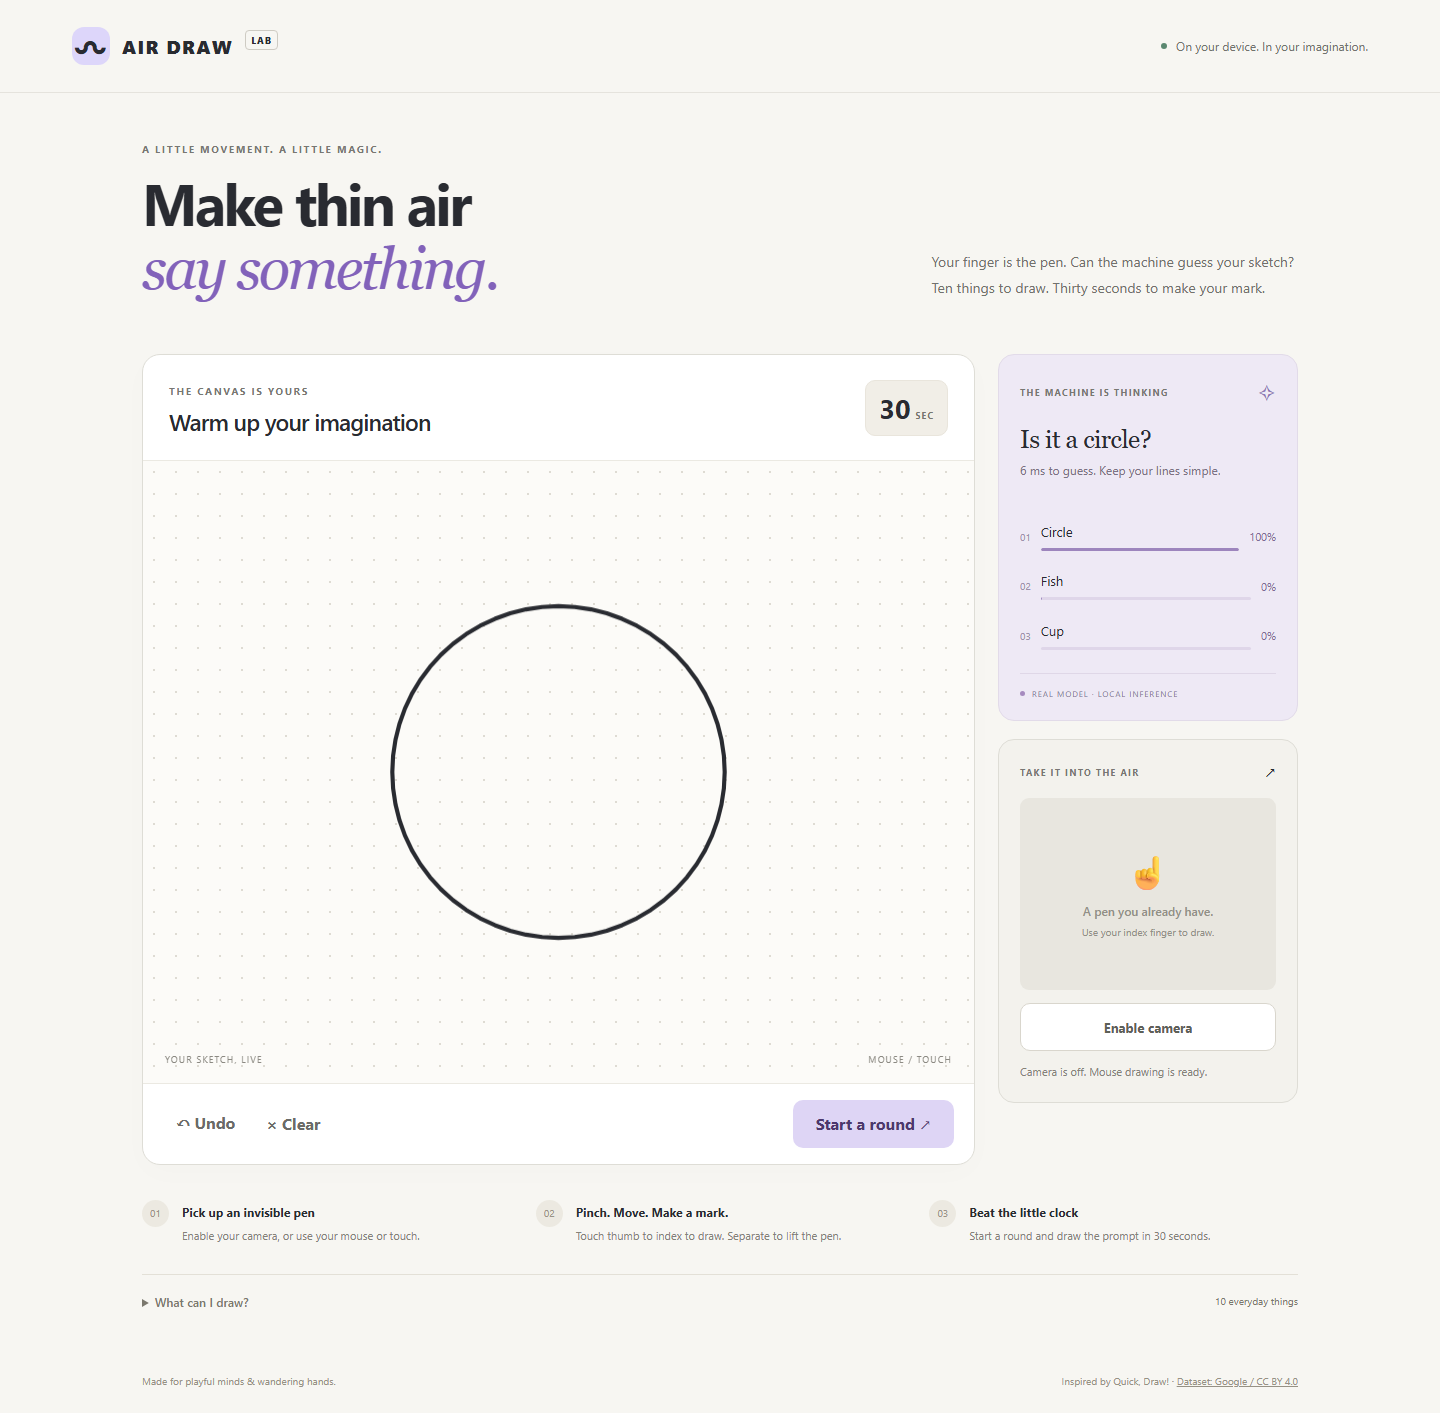
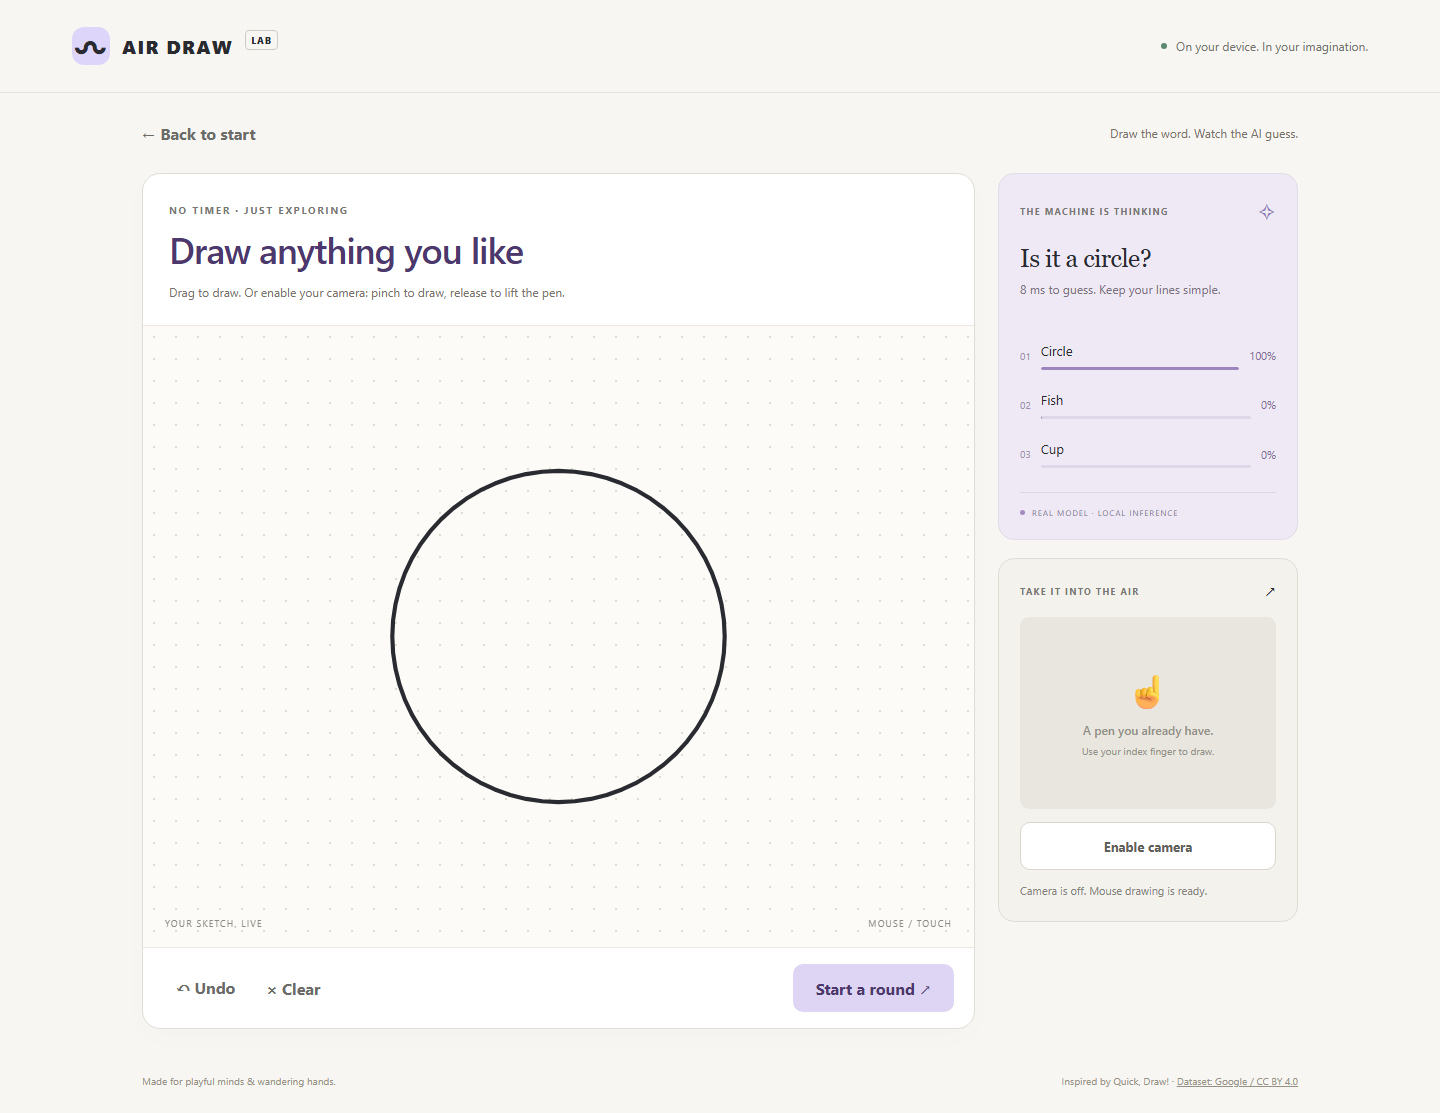
Add a guided start screen before the drawing board

diff --git a/web/src/main.ts b/web/src/main.ts
@@ -1,11 +1,20 @@
 import './style.css'
+import './start-screen.css'
 import { CATEGORIES, Drawing, StableGuess, type Point } from './drawing'
 import { Camera } from './camera'
 
 document.querySelector<HTMLDivElement>('#app')!.innerHTML = `
 <header><a class="brand" href="./"><span class="brand-icon">〰</span> AIR DRAW<span class="beta">LAB</span></a><span class="privacy"><i></i> On your device. In your imagination.</span></header>
 <main><section class="intro"><div class="eyebrow">A LITTLE MOVEMENT. A LITTLE MAGIC.</div><h1>Make thin air<br><em>say something.</em></h1><p>Your finger is the pen. Can the machine guess your sketch?<br>Ten things to draw. Thirty seconds to make your mark.</p></section>
-<section class="game" aria-label="Air Draw game"><div class="play-area">
+<section id="welcome" class="welcome" aria-labelledby="welcome-title">
+<span class="welcome-doodle" aria-hidden="true">✳</span><div class="eyebrow">A QUICK DRAWING CHALLENGE</div>
+<h2 id="welcome-title">Ready, set, sketch.</h2><p>We'll give you something to draw.<br>You have <strong>30 seconds</strong> to help the AI guess it.</p>
+<div class="welcome-steps"><span><b>1</b> Press Start</span><span><b>2</b> See your word</span><span><b>3</b> Draw it!</span></div>
+<button id="begin" class="primary" disabled>Getting ready…</button><p id="welcome-status" role="status">Loading the drawing model…</p>
+<button id="practice" class="practice-link">Just practice — no timer</button><p class="welcome-note">Use your mouse or finger. You can also enable your camera to draw in the air.</p>
+</section>
+<div id="board-nav" class="board-nav" hidden><button id="home" class="secondary">← Back to start</button><span>Draw the word. Watch the AI guess.</span></div>
+<section id="game" class="game" aria-label="Air Draw game" hidden><div class="play-area">
 <div class="prompt-bar"><div><span class="eyebrow" id="round-label">THE CANVAS IS YOURS</span><h2 id="prompt">Warm up your imagination</h2></div><div class="timer" role="timer" aria-label="Seconds remaining"><span id="seconds">30</span><small>SEC</small></div></div>
 <div class="canvas-wrap"><canvas id="canvas" width="800" height="600" aria-label="Drawing canvas. Drag with a mouse or finger to draw."></canvas><div id="canvas-hint"><span class="hint-scribble">✳</span><strong>Every great idea starts with a squiggle.</strong><span>Drag to draw, or turn on your camera.</span></div><div id="cursor" hidden></div><span class="canvas-label">YOUR SKETCH, LIVE</span><span id="pen-status" class="pen-status">MOUSE / TOUCH</span></div>
 <div class="toolbar"><div><button id="undo" class="secondary" disabled>↶ <span>Undo</span></button><button id="clear" class="secondary" disabled>× <span>Clear</span></button></div><button id="start" class="primary" disabled>Loading model…</button></div><div id="result" role="status" hidden></div></div>
@@ -24,8 +33,34 @@ let mouseDown = false, airDown = false
 let modelReady = false, inferenceBusy = false, lastInferred = -1, lastConfirmation = 0
 let inferenceSent = 0, lastTop = ''
 const inference = new Worker(new URL('./inference.worker.ts', import.meta.url), { type: 'module' })
+$('prompt').tabIndex = -1
+$('prompt').setAttribute('aria-live', 'polite')
+const instructions = document.createElement('p')
+instructions.className = 'drawing-instructions'
+instructions.textContent = 'Drag to draw. Or enable your camera: pinch to draw, release to lift the pen.'
+$('prompt').after(instructions)
+function showBoard() {
+  $('welcome').hidden = true; $('game').hidden = false; $('board-nav').hidden = false
+  document.body.classList.add('drawing-view')
+  redraw(); $('prompt').focus({ preventScroll: true }); window.scrollTo(0, 0)
+}
+$('practice').onclick = () => {
+  $('round-label').textContent = 'NO TIMER · JUST EXPLORING'
+  $('prompt').textContent = 'Draw anything you like'
+  document.querySelector<HTMLElement>('.timer')!.hidden = true
+  showBoard()
+}
+$('home').onclick = () => {
+  playing = false; finished = false; round++; mouseDown = false; endAir()
+  camera.stop(); drawing.clear(); resetGuesses(); $('result').hidden = true
+  $('start').textContent = modelReady ? 'Start a round ↗' : 'Model unavailable'
+  $('game').hidden = true; $('board-nav').hidden = true; $('welcome').hidden = false
+  document.body.classList.remove('drawing-view')
+  $(modelReady ? 'begin' : 'practice').focus({ preventScroll: true }); window.scrollTo(0, 0)
+}
 function redraw() {
   const rect = canvas.getBoundingClientRect(), dpr = Math.min(devicePixelRatio || 1, 2)
+  if (!rect.width || !rect.height) return
   const width = Math.round(rect.width * dpr), height = Math.round(rect.height * dpr)
   if (canvas.width !== width || canvas.height !== height) { canvas.width = width; canvas.height = height }
   ctx.setTransform(width / 800, 0, 0, height / 600, 0, 0)
@@ -67,23 +102,29 @@ function finish(success: boolean) {
   if (!playing) return
   playing = false; finished = true; mouseDown = false; drawing.end(); endAir()
   $('result').hidden = false; $('result').className = success ? 'success' : 'timeout'
-  $('result').textContent = success ? `Got it! That's a ${target}. Nicely drawn.` : `Time's up! The prompt was ${target}. ${lastTop ? `My last guess was ${lastTop}.` : 'Try a bold outline next time.'}`
+  $('result').textContent = success ? `Got it! That's ${/^[aeiou]/.test(target) ? 'an' : 'a'} ${target}. Nicely drawn.` : `Time's up! The prompt was ${target}. ${lastTop ? `My last guess was ${lastTop}.` : 'Try a bold outline next time.'}`
   $('start').textContent = 'Next round ↗'; $('round-label').textContent = success ? 'A LITTLE AIR. A GREAT IDEA.' : 'ANOTHER SKETCH AWAITS'
 }
-$('start').onclick = () => {
+function startRound() {
   if (!modelReady) return
   const choices = CATEGORIES.filter(c => c !== lastTarget)
   target = choices[Math.floor(Math.random() * choices.length)]; lastTarget = target
   round++; playing = true; finished = false; deadline = performance.now() + 30000
   endAir(); mouseDown = false; drawing.clear(); resetGuesses(); redraw()
-  $('prompt').textContent = `Draw a ${target}`; $('round-label').textContent = `ROUND ${String(round).padStart(2, '0')} · YOUR CHALLENGE`
+  $('prompt').textContent = `Draw ${/^[aeiou]/.test(target) ? 'an' : 'a'} ${target}`; $('round-label').textContent = `ROUND ${String(round).padStart(2, '0')} · YOUR CHALLENGE`
   $('seconds').textContent = '30'; $('start').textContent = 'Restart round ↗'; $('result').hidden = true
+  document.querySelector<HTMLElement>('.timer')!.hidden = false
+  showBoard()
 }
+$('start').onclick = startRound
+$('begin').onclick = startRound
 function modelError(message: string) {
   modelReady = false; inferenceBusy = false
   if (playing) { playing = false; finished = false; $('result').hidden = false; $('result').textContent = 'Round stopped because recognition is unavailable. Reload to retry; you can still sketch.' }
   $('model-status').textContent = `Recognition unavailable. Reload to retry. ${message}`
   $('start').textContent = 'Model unavailable'; $<HTMLButtonElement>('start').disabled = true
+  $('begin').textContent = 'Game unavailable'; $<HTMLButtonElement>('begin').disabled = true
+  $('welcome-status').textContent = 'Recognition could not load. Reload to retry, or choose Just practice to sketch.'
 }
 inference.onerror = e => modelError(e.message)
 inference.onmessage = event => {
@@ -91,6 +132,8 @@ inference.onmessage = event => {
   if (msg.type === 'ready') {
     modelReady = true; $('model-status').textContent = 'Ready when you are. Start sketching.'
     $('start').textContent = 'Start a round ↗'; $<HTMLButtonElement>('start').disabled = false
+    $('begin').textContent = 'Start drawing →'; $<HTMLButtonElement>('begin').disabled = false
+    $('welcome-status').textContent = 'Ready when you are. No camera required.'
   } else if (msg.type === 'error') modelError(msg.message)
   else if (msg.type === 'prediction') {
     inferenceBusy = false

diff --git a/web/tests/start-screen.spec.ts b/web/tests/start-screen.spec.ts
@@ -1,0 +1,47 @@
+import { test, expect } from '@playwright/test'
+
+test('start screen hides the board until Start, then shows a prompt and fresh round', async ({ page }) => {
+  await page.addInitScript(() => { Math.random = () => .999 })
+  await page.goto('/')
+  await expect(page.locator('#game')).toBeHidden()
+  await expect(page.locator('#begin')).toBeEnabled({ timeout: 60000 })
+  await page.screenshot({ path: '../docs/start-desktop.png', fullPage: true })
+  await page.setViewportSize({ width: 390, height: 844 })
+  expect(await page.evaluate(() => document.documentElement.scrollWidth <= innerWidth)).toBe(true)
+  await page.screenshot({ path: '../docs/start-mobile.png', fullPage: true })
+  await page.clock.install()
+  await page.clock.fastForward(31000)
+  await expect(page.locator('#result')).toBeHidden()
+  await page.locator('#begin').click()
+  await expect(page.locator('#welcome')).toBeHidden()
+  await expect(page.locator('#canvas')).toBeVisible()
+  await expect(page.locator('#prompt')).toHaveText('Draw an airplane')
+  await expect(page.locator('#prompt')).toBeFocused()
+  await expect(page.locator('#seconds')).toHaveText('30')
+  await expect(page.locator('.drawing-instructions')).toBeVisible()
+  await page.screenshot({ path: '../docs/round-mobile.png', fullPage: true })
+  await page.clock.fastForward(31000)
+  await expect(page.locator('#result')).toContainText("Time's up!")
+  await page.locator('#home').click()
+  await expect(page.locator('#game')).toBeHidden()
+  await expect(page.locator('#begin')).toBeFocused()
+  await page.locator('#begin').press('Enter')
+  await expect(page.locator('#seconds')).toHaveText('30')
+  await expect(page.locator('#result')).toBeHidden()
+  await expect(page.locator('#clear')).toBeDisabled()
+})
+
+test('practice has no timer and returning home stops the camera', async ({ page }) => {
+  await page.goto('/')
+  await page.locator('#practice').click()
+  await expect(page.locator('#prompt')).toHaveText('Draw anything you like')
+  await expect(page.locator('.timer')).toBeHidden()
+  await page.locator('#camera').click()
+  await expect(page.locator('#camera')).toHaveText('Disable camera', { timeout: 60000 })
+  await page.evaluate(() => {
+    (window as any).savedTracks = ((document.querySelector('video') as HTMLVideoElement).srcObject as MediaStream).getTracks()
+  })
+  await page.locator('#home').click()
+  expect(await page.evaluate(() => (window as any).savedTracks.every((t: MediaStreamTrack) => t.readyState === 'ended'))).toBe(true)
+  await expect(page.locator('#game')).toBeHidden()
+})

diff --git a/web/src/start-screen.css b/web/src/start-screen.css
@@ -1,0 +1,37 @@
+.welcome {
+  position: relative;
+  overflow: hidden;
+  padding: 42px 24px 30px;
+  border: 1px solid #e6d89f;
+  border-radius: 22px;
+  background: #f8edc4;
+  text-align: center;
+}
+.welcome h2 { margin: 12px 0; font: 48px/1.1 Georgia, serif; letter-spacing: -1.5px; }
+.welcome > p { color: #6a6454; font-size: 15px; line-height: 1.7; }
+.welcome-doodle { position: absolute; right: 8%; top: 24px; font-size: 100px; color: #c7ac62; transform: rotate(12deg); }
+.welcome-steps { display: flex; justify-content: center; flex-wrap: wrap; gap: 24px; margin: 26px 0; font-size: 13px; }
+.welcome-steps span { display: flex; align-items: center; gap: 8px; }
+.welcome-steps b { display: grid; place-items: center; border: 1px solid #d7c78d; border-radius: 50%; width: 26px; height: 26px; font-size: 11px; }
+.welcome .primary { min-width: 220px; min-height: 58px; background: #4c386d; color: white; font-size: 17px; }
+.welcome .primary:hover { background: #614886; }
+.welcome #welcome-status { min-height: 20px; font-size: 12px; margin: 12px 0 0; }
+.practice-link { background: transparent; color: #655b46; text-decoration: underline; text-underline-offset: 4px; font-size: 13px; margin-top: 6px; }
+.welcome .welcome-note { font-size: 12px; margin: 4px auto 0; max-width: 420px; }
+.board-nav { display: flex; align-items: center; justify-content: space-between; gap: 14px; padding: 16px 0; }
+.board-nav .secondary { background: transparent; padding-left: 0; }
+.board-nav > span { font-size: 12px; color: #77716a; }
+.drawing-view .intro, .drawing-view .how-to, .drawing-view main > details { display: none; }
+.drawing-view .prompt-bar h2 { font-size: clamp(26px, 3vw, 36px); letter-spacing: -1px; color: #4c386d; }
+.drawing-instructions { font-size: 12px; line-height: 1.6; color: #77716a; max-width: 430px; margin: 10px 0 0; }
+#prompt:focus { outline: none; }
+@media (max-width: 700px) {
+  .welcome { padding: 30px 18px 24px; }
+  .welcome h2 { font-size: 38px; }
+  .welcome-doodle { right: -15px; top: -12px; font-size: 70px; opacity: .45; }
+  .welcome-steps { gap: 12px; font-size: 11px; }
+  .welcome-steps span { gap: 5px; }
+  .board-nav > span { display: none; }
+  .drawing-view .prompt-bar { align-items: flex-start; }
+  .drawing-instructions { font-size: 11px; }
+}

diff --git a/web/tests/game.spec.ts b/web/tests/game.spec.ts
@@ -3,6 +3,7 @@ import { test, expect, type Page } from '@playwright/test'
 async function ready(page: Page) {
   await page.goto('/')
   await expect(page.locator('#start')).toBeEnabled({ timeout: 60000 })
+  await page.locator('#practice').click()
 }
 async function circle(page: Page) {
   const box = (await page.locator('#canvas').boundingBox())!
@@ -39,7 +40,7 @@ test('timer expires, result appears, restart resets canvas', async ({page}) => {
   await ready(page)
   await page.clock.install()
   await page.locator('#start').click()
-  await expect(page.locator('#prompt')).toContainText('Draw a ')
+  await expect(page.locator('#prompt')).toHaveText(/^Draw an? /)
   await page.clock.fastForward(31000)
   await expect(page.locator('#result')).toContainText("Time's up!")
   await page.locator('#start').click()
@@ -84,6 +85,8 @@ test('@recognition missing classifier fails honestly without invented prediction
   await page.goto('/')
   await expect(page.locator('#model-status')).toContainText('Recognition unavailable', {timeout:60000})
   await expect(page.locator('#start')).toBeDisabled()
+  await expect(page.locator('#welcome-status')).toContainText('Recognition could not load')
+  await page.locator('#practice').click()
   await circle(page)
   await expect(page.locator('#guesses')).toContainText('A few lines')
 })

diff --git a/web/tests/recognition.spec.ts b/web/tests/recognition.spec.ts
@@ -45,6 +45,7 @@ async function observe(page: Page, syntheticTracking = false) {
   }, { syntheticTracking })
   await page.goto('/')
   await expect(page.locator('#start')).toBeEnabled({ timeout: 60000 })
+  await page.locator('#practice').click()
 }
 
 async function mouseCircle(page: Page) {

diff --git a/CHECKPOINTS.md b/CHECKPOINTS.md
@@ -1,7 +1,9 @@
 # Checkpoint progress
 
-Work is limited to the nearest incomplete checkpoint. Checkpoint 5 is complete;
-stop here and do not begin checkpoint 6 until the user asks. On 2026-10-02 the
+Work is limited to the requested scope. Checkpoint 5 is complete; the user then
+requested a clearer Start → drawing-prompt UI. That focused portion of checkpoint
+6 is implemented and verified. Stop after this UI change; broader game-loop
+completion remains pending. On 2026-10-02 the
 user authorized pushing the existing state, then proceeding to checkpoint 5.
 Commit `ab8c66c` was pushed to `origin/main`. Checkpoint 5 changes are saved in a
 new local commit; further pushes and deployment are not part of this checkpoint.
@@ -13,7 +15,7 @@ new local commit; further pushes and deployment are not part of this checkpoint.
 | 3 | Webcam air drawing with pinch control | Existing implementation preserved; pinch hysteresis and reset checks pass. Physical-camera behavior still needs a human smoke test. |
 | 4 | Dataset preparation, model training, and evaluation | Complete and verified. Full test accuracy 96.00%; partial test accuracy 89.95%. |
 | 5 | Real browser recognition for mouse and air drawings | Complete: eight Chromium recognition tests pass with real ONNX inference. Air-path tests use controlled landmarks; physical-hand accuracy remains a manual check. |
-| 6 | Complete game loop | Draft implementation preserved. Not checkpoint-verified; deferred. |
+| 6 | Complete game loop | Start-screen UI change complete; start, practice, timeout/restart and return-home checks pass. Full success/stale-round verification remains pending. |
 | 7 | Verification, documentation, and deployment preparation | Draft docs and tests preserved. Full verification deferred. |
 
 ## Scope and preserved work
@@ -54,7 +56,9 @@ $env:Path = "$PWD\.tools\node-v24.21.0-win-x64;$env:Path"
 npm.cmd --prefix web run dev -- --host 127.0.0.1
 ```
 
-Open http://127.0.0.1:5173. Drag on the canvas; try Undo and Clear. Enable
+Open http://127.0.0.1:5173. Click **Start drawing** to open the board with a prompt
+and 30-second timer, or **Just practice** for untimed drawing. Drag on the canvas;
+try Undo and Clear. **Back to start** clears the round and stops the camera. Enable
 camera, grant permission, and pinch thumb to index to draw; separate them to
 lift the pen. Stop the server with Ctrl+C. Recognition has passed checkpoint 5
 browser checks; timed gameplay remains preserved for checkpoint 6 verification.
@@ -72,10 +76,37 @@ After the user explicitly requests checkpoint 6:
 4. Finish only the complete game loop: prompt selection, 30-second deadline,
    stable correct recognition, win/timeout results, restart, and state resets.
    Add meaningful missing success, stale-round and restart coverage. Existing
-   timer test in `web/tests/game.spec.ts` was intentionally not run in checkpoint 5.
+   timer test in `web/tests/game.spec.ts` now passes, as do the new start-screen
+   tests. Broader success/stale-round coverage is still outstanding.
 5. Run the relevant unit and browser checks, update this file, commit project-only
    changes locally, and stop before checkpoint 7. Do not deploy or push additional
    work unless requested.
+
+## Requested UI follow-up
+
+The board is initially hidden behind a warm-colored start card explaining the
+three steps: press Start, see a word, draw it. Start reveals a prominent prompt,
+the timer, and brief mouse/air instructions. The introductory sections disappear
+while drawing. Keyboard focus moves to the prompt. A secondary practice option
+preserves untimed drawing, including when recognition cannot load. Back to start
+clears drawing/round state, invalidates pending predictions and stops the camera.
+
+Verification: production build and five unit tests passed. All eleven browser
+tests passed (42.7s), including the eight recognition regressions, the existing
+timeout/restart test and two new start/practice tests. Following a small article
+fix ("Draw an airplane"), the build and the three affected UI/timer tests passed
+again (24.9s). Tests cover the hidden initial board, no timer before Start,
+mobile width, focus/keyboard activation, fresh rounds after returning home,
+untimed practice, camera cleanup and model-load failure fallback.
+
+Screenshots: [start desktop](docs/start-desktop.png),
+[start mobile](docs/start-mobile.png), [round mobile](docs/round-mobile.png).
+Mobile start and board layouts were visually inspected. Existing desktop/mobile
+recognition screenshots were refreshed for the new practice view.
+
+This completes the requested UI change, not all checkpoint-6 verification.
+Physical-hand testing and broader game-loop success/stale-round scenarios remain
+as noted above. No model retraining, dependency changes, push or deployment.
 
 ## Checkpoint 5 verification (2026-10-02)
 
@@ -156,12 +187,14 @@ Preparation, training, verification, installation and test processes have exited
 The earlier preview (session 71254) was stopped before browser testing. A local
 preview was restarted after tests at http://127.0.0.1:4173 using
 `npm.cmd --prefix web run preview -- --host 127.0.0.1 --port 4173 --strictPort`
-Preview tool session: `96746`. Stop with Ctrl+C in that session, or identify the listener
+The checkpoint-5 preview (session 96746) was stopped for UI testing. The preview
+was restarted after the UI build; its current tool session is `72295`.
+Stop with Ctrl+C in that session, or identify the listener
 with `Get-NetTCPConnection -LocalPort 4173 -State Listen` and stop its owning
 process. This local preview is the only intentionally running project process.
 No deployment was performed. Only the pre-checkpoint-5 commit `ab8c66c` was pushed,
-as requested; the new checkpoint-5 commit remains local.
+as requested; checkpoint 5 (`8f181c5`) and the UI follow-up commits remain local.
 
-Local checkpoint commit message: `Verify checkpoint 5 browser recognition for mouse and air input`.
+Local UI commit message: `Add a guided start screen before the drawing board`.
 Use `git log -1 --oneline` to find its commit ID (the ID is intentionally not
 embedded in the file it commits).

diff --git a/README.md b/README.md
@@ -25,10 +25,11 @@ npm.cmd run dev -- --host 127.0.0.1
 
 Open **http://127.0.0.1:5173**. On another machine, install [Node.js LTS](https://nodejs.org/en/download) and omit the portable PATH line. `npm.cmd` avoids PowerShell's `npm.ps1` execution-policy restriction; changing the system execution policy is unnecessary.
 
-1. Sketch with the mouse or touch while the model loads. Click **Start a round** for a random category and 30-second timer.
+1. Click **Start drawing** on the welcome screen. The board opens with a random drawing prompt and a 30-second timer. Choose **Just practice** for untimed sketching instead.
 2. Optionally click **Enable camera**, allow access, and hold one hand inside the preview. The preview and drawing movement are mirrored.
 3. Your index fingertip is the cursor. Bring thumb and index together to draw; separate them to lift the pen. Move to a new position with the pen up.
 4. Use **Undo** for the last stroke, **Clear** for a fresh canvas, and **Restart round** for a new prompt.
+   **Back to start** returns to the welcome screen, clears the round, and turns off the camera.
 5. A top prediction above 65% must remain correct for at least 800 ms across fresh observations to win. The model never receives the requested category.
 
 Categories: circle, triangle, star, house, tree, fish, bicycle, umbrella, cup, airplane. The model only knows these categories; percentages are relative model scores, not calibrated certainty.
